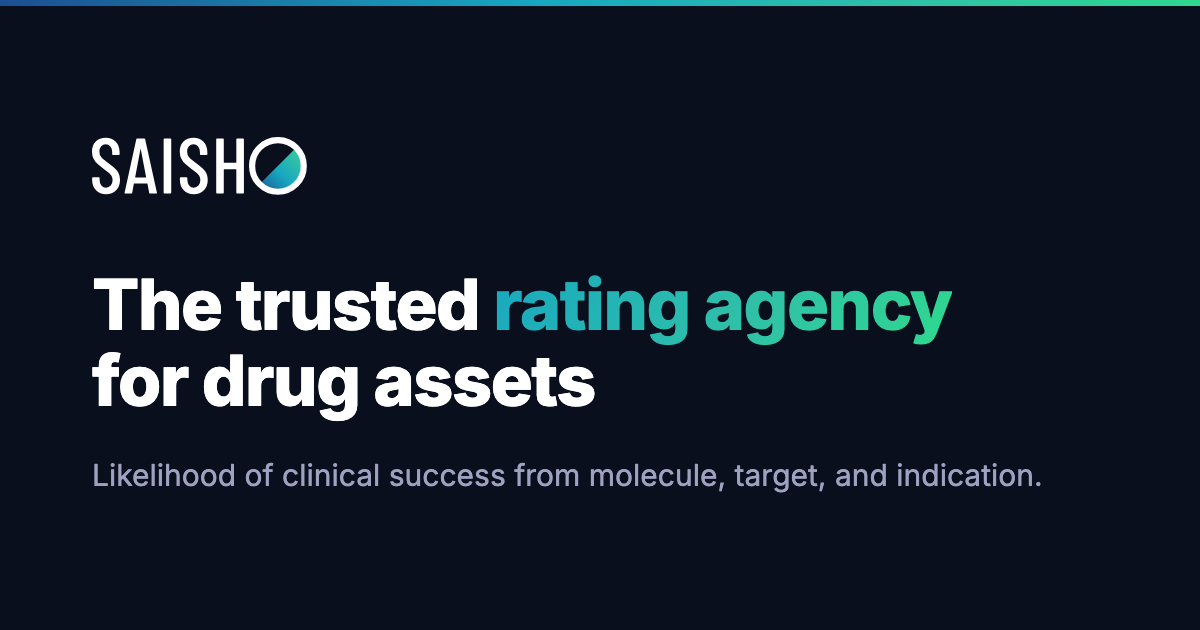
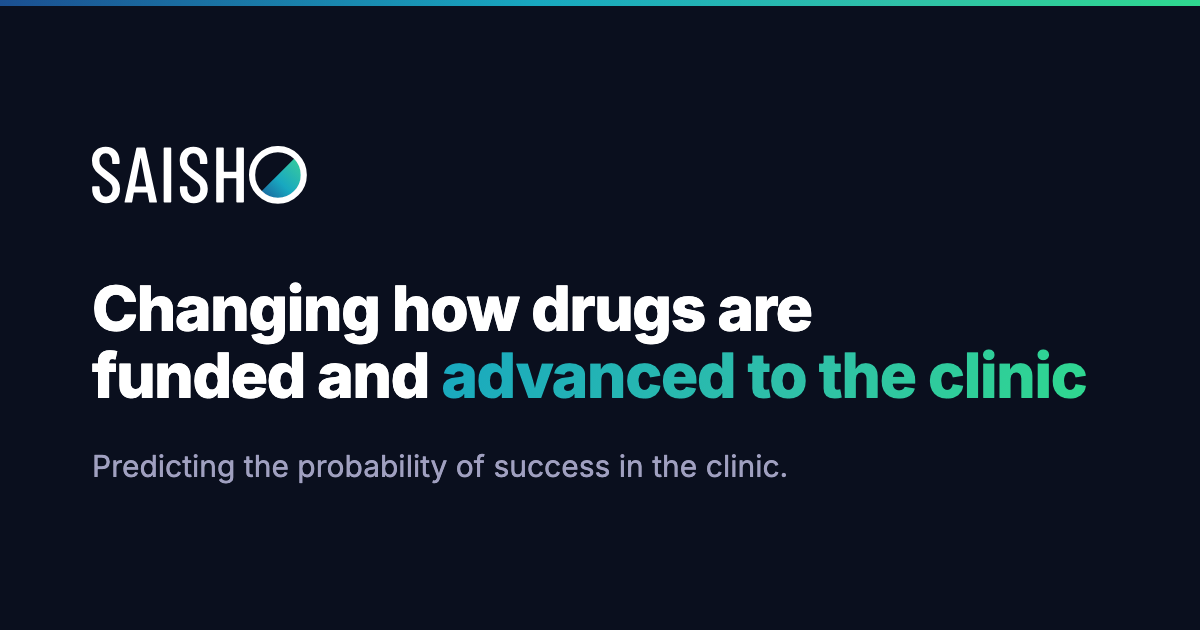
Make the hero neutral: predicting probability of clinical success
Drops the "trusted rating agency" claim for a neutral framing of what
the product does.

  Changing how drugs are funded and advanced to the clinic

  SAISHO predicts a drug candidate's probability of success in the
  clinic from its molecule, target, and indication. That prediction
  gives teams and investors a consistent basis for the decisions that
  commit years and hundreds of millions.

Title, meta description, Open Graph and Twitter tags follow, and
social-card.png is regenerated, so the metadata does not contradict the
headline. The validation subhead is reworded from "a rating" to "a
prediction". No occurrence of "rating agency" remains.

.hero h1 drops from 4.5rem to 3.6rem in index.css, since the longer
sentence orphaned its last word. Set in the stylesheet rather than
inline, so the mobile clamp in the max-width: 992px block still wins.

Changed region(s): [[0.0617, 0.4222, 0.925, 0.6635], [0.0617, 0.7238, 0.8633, 0.7841], [0.0617, 0.2111, 0.2775, 0.3317]]

diff --git a/index.html b/index.html
@@ -3,8 +3,8 @@
 <head>
     <meta charset="UTF-8">
     <meta name="viewport" content="width=device-width, initial-scale=1.0">
-    <title>SAISHO | The trusted rating agency for drug assets</title>
-    <meta name="description" content="SAISHO is the trusted rating agency for drug assets. AlphaForge rates a drug's likelihood of clinical success from its molecule, target, and indication.">
+    <title>SAISHO | Predicting the probability of clinical success</title>
+    <meta name="description" content="SAISHO predicts a drug candidate's probability of clinical success from its molecule, target, and indication, changing how drugs are funded and advanced.">
     <link rel="canonical" href="https://www.saisho.ai/">
 
     <!-- Open Graph / Twitter: without these, link previews fall back to the
@@ -13,15 +13,15 @@
     <meta property="og:type" content="website">
     <meta property="og:site_name" content="SAISHO">
     <meta property="og:url" content="https://www.saisho.ai/">
-    <meta property="og:title" content="SAISHO | The trusted rating agency for drug assets">
-    <meta property="og:description" content="AlphaForge rates a drug's likelihood of clinical success from its molecule, target, and indication, names the risks behind that number, and separates what is fixable from what should stop the program.">
+    <meta property="og:title" content="SAISHO | Predicting the probability of clinical success">
+    <meta property="og:description" content="AlphaForge predicts a drug candidate's probability of success in the clinic from its molecule, target, and indication, names the risks behind that number, and separates what is fixable from what should stop the program.">
     <meta property="og:image" content="https://www.saisho.ai/assets/social-card.png">
     <meta property="og:image:width" content="1200">
     <meta property="og:image:height" content="630">
-    <meta property="og:image:alt" content="SAISHO: the trusted rating agency for drug assets">
+    <meta property="og:image:alt" content="SAISHO: changing how drugs are funded and advanced to the clinic">
     <meta name="twitter:card" content="summary_large_image">
-    <meta name="twitter:title" content="SAISHO | The trusted rating agency for drug assets">
-    <meta name="twitter:description" content="AlphaForge rates a drug's likelihood of clinical success from its molecule, target, and indication.">
+    <meta name="twitter:title" content="SAISHO | Predicting the probability of clinical success">
+    <meta name="twitter:description" content="AlphaForge predicts a drug candidate's probability of success in the clinic from its molecule, target, and indication.">
     <meta name="twitter:image" content="https://www.saisho.ai/assets/social-card.png">
     <link rel="stylesheet" href="index.css">
     <link rel="preconnect" href="https://fonts.googleapis.com">
@@ -48,8 +48,8 @@
         <!-- Hero -->
         <section class="hero container">
             <div class="hero-content">
-                <h1 class="reveal">The trusted <span class="gradient-text">rating agency</span> for drug assets</h1>
-                <p class="reveal" style="animation-delay: 0.2s;">Every program comes down to one question: is this drug worth years and millions? Today every committee, every fund, and every pharma answers it a different way. The industry has opinions everywhere and a standard nowhere. We are building that standard.</p>
+                <h1 class="reveal">Changing how drugs are funded and <span class="gradient-text">advanced to the clinic</span></h1>
+                <p class="reveal" style="animation-delay: 0.2s;">SAISHO predicts a drug candidate’s probability of success in the clinic from its molecule, target, and indication. That prediction gives teams and investors a consistent basis for the decisions that commit years and hundreds of millions.</p>
                 <div class="hero-actions reveal" style="animation-delay: 0.4s;">
                     <a href="#assessment" class="btn btn-primary">Request an assessment</a>
                 </div>
@@ -90,7 +90,7 @@
             <div class="container">
                 <div style="max-width: 780px; margin: 0 auto 4rem; text-align: center;">
                     <h2 style="font-size: 3rem; margin-bottom: 1.5rem;">Strong retrospectively. <span class="gradient-text">Strong prospectively.</span></h2>
-                    <p style="color: var(--text-muted); font-size: 1.25rem;">A rating only matters if it can tell which drugs will make it.</p>
+                    <p style="color: var(--text-muted); font-size: 1.25rem;">A prediction only matters if it can tell which drugs will make it.</p>
                 </div>
                 <div style="display: grid; grid-template-columns: repeat(auto-fit, minmax(300px, 1fr)); max-width: 820px; margin: 0 auto; gap: 3rem 3.5rem;">
                     <div style="border-left: 3px solid var(--primary-color); padding-left: 1.5rem;">

diff --git a/index.css b/index.css
@@ -83,7 +83,10 @@ section {
 }
 
 .hero h1 {
-    font-size: 4.5rem;
+    /* 3.6rem rather than 4.5rem: the headline is a full sentence, and the
+       larger size orphaned its last word. The mobile clamp in the
+       max-width: 992px block still overrides this. */
+    font-size: 3.6rem;
     line-height: 1.1;
     margin-bottom: 1.5rem;
 }
